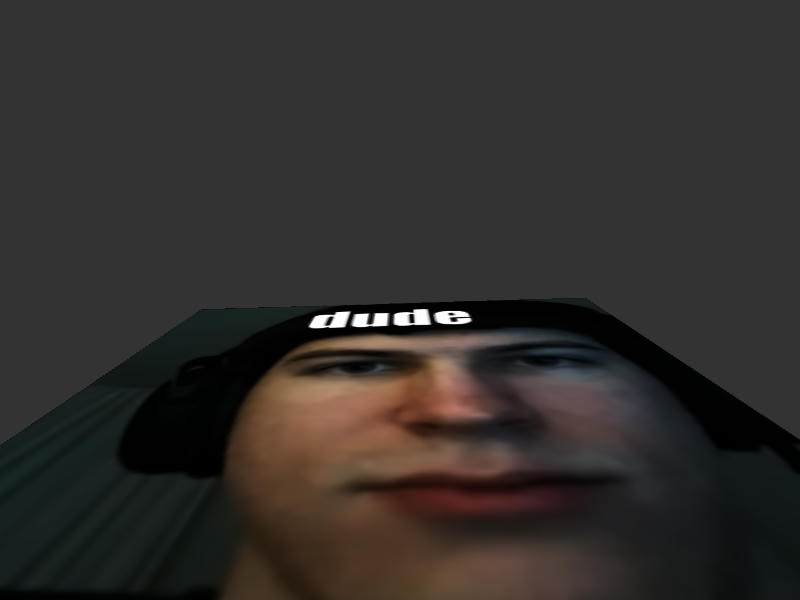
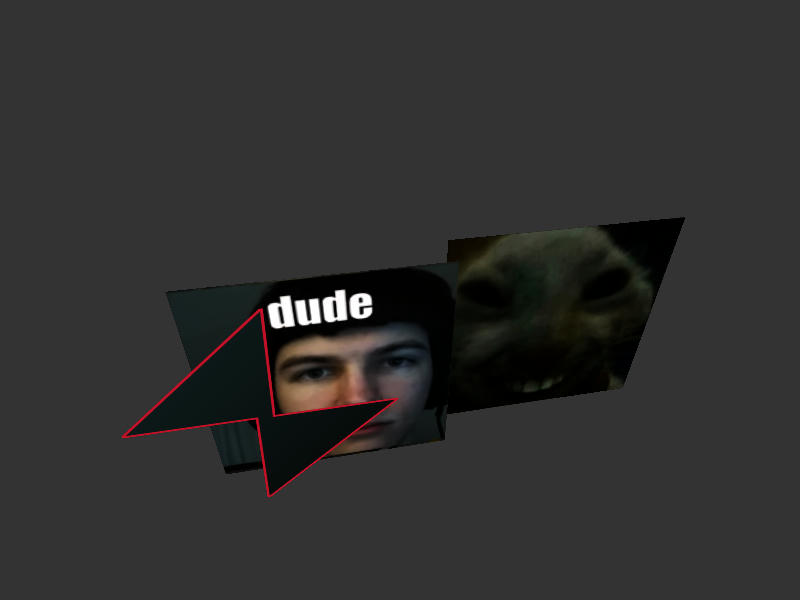
Multiple textures

diff --git a/src/vulkan/vulkano.rs b/src/vulkan/vulkano.rs
@@ -17,6 +17,8 @@ use crate::{InstanceData, Model, VertexData};
 
 use super::model::TexturedInstanceData;
 use super::model::TexturedVertexData;
+use super::pipeline;
+use super::texture::TextureStorage;
 
 pub struct Vulkano {
     pub window: winit::window::Window,
@@ -43,6 +45,7 @@ pub struct Vulkano {
     pub descriptor_sets_light: Vec<vk::DescriptorSet>,
     pub descriptor_sets_texture: Vec<vk::DescriptorSet>,
     pub light_buffer: Buffer,
+    pub texture_storage: TextureStorage,
 }
 
 impl Vulkano {
@@ -71,7 +74,7 @@ impl Vulkano {
         let renderpass = init_renderpass(&logical_device, swapchain.surface_format.format)?;
         swapchain.create_framebuffers(&logical_device, renderpass)?;
 
-        let pipeline = Pipeline::init_textured(&logical_device, &swapchain, &renderpass)?;
+        // let pipeline = Pipeline::init_textured(&logical_device, &swapchain, &renderpass)?;
         let pools = Pools::init(&logical_device, &queue_families)?;
 
         let allocator_create_description = gpu_allocator::vulkan::AllocatorCreateDesc {
@@ -121,14 +124,17 @@ impl Vulkano {
             },
             vk::DescriptorPoolSize {
                 ty: vk::DescriptorType::COMBINED_IMAGE_SAMPLER,
-                descriptor_count: swapchain.amount_of_images,
+                descriptor_count: pipeline::MAXIMAL_NUMBER_OF_TEXTURES * swapchain.amount_of_images,
             },
         ];
         let descriptor_pool_info = vk::DescriptorPoolCreateInfo::builder()
-            .max_sets(2 * swapchain.amount_of_images)
+            .flags(vk::DescriptorPoolCreateFlags::UPDATE_AFTER_BIND_EXT)
+            .max_sets(pipeline::MAXIMAL_NUMBER_OF_TEXTURES * pool_sizes.len() as u32)
             .pool_sizes(&pool_sizes);
         let descriptor_pool =
             unsafe { logical_device.create_descriptor_pool(&descriptor_pool_info, None) }?;
+
+        let pipeline = Pipeline::init_textured(&logical_device, &swapchain, &renderpass)?;
 
         let desc_layouts_camera =
             vec![pipeline.descriptor_set_layouts[0]; swapchain.amount_of_images as usize];
@@ -179,9 +185,15 @@ impl Vulkano {
 
         let desc_layouts_texture =
             vec![pipeline.descriptor_set_layouts[1]; swapchain.amount_of_images as usize];
+        let descriptor_counts =
+            vec![pipeline::MAXIMAL_NUMBER_OF_TEXTURES; swapchain.amount_of_images as usize];
+        let mut count_info = vk::DescriptorSetVariableDescriptorCountAllocateInfoEXT::builder()
+            .descriptor_counts(&descriptor_counts);
         let descriptor_set_allocate_info_texture = vk::DescriptorSetAllocateInfo::builder()
             .descriptor_pool(descriptor_pool)
-            .set_layouts(&desc_layouts_texture);
+            .set_layouts(&desc_layouts_texture)
+            .push_next(&mut count_info);
+
         let descriptor_sets_texture = unsafe {
             logical_device.allocate_descriptor_sets(&descriptor_set_allocate_info_texture)
         }?;
@@ -211,6 +223,7 @@ impl Vulkano {
             descriptor_sets_light: vec![],
             descriptor_sets_texture,
             light_buffer,
+            texture_storage: TextureStorage::new(),
         })
     }
 
@@ -297,6 +310,21 @@ impl Vulkano {
         self.pipeline = Pipeline::init_textured(&self.device, &self.swapchain, &self.renderpass)?;
         Ok(())
     }
+
+    pub fn new_texture_from_file<P: AsRef<std::path::Path>>(
+        &mut self,
+        path: P,
+    ) -> Result<usize, Box<dyn std::error::Error>> {
+        self.texture_storage.new_texture_from_file(
+            path,
+            &self.instance,
+            &self.device,
+            self.physical_device,
+            &mut self.allocator,
+            self.pools.command_pool_graphics,
+            self.queues.graphics_queue,
+        )
+    }
 }
 
 impl Drop for Vulkano {
@@ -305,6 +333,7 @@ impl Drop for Vulkano {
             self.device
                 .device_wait_idle()
                 .expect("Something went wrong while waiting");
+            self.texture_storage.cleanup(&self.device);
             self.device
                 .destroy_descriptor_pool(self.descriptor_pool, None);
             self.light_buffer.cleanup(&self.device, &mut self.allocator);

diff --git a/src/main.rs b/src/main.rs
@@ -31,8 +31,6 @@ use vulkan::swapchain::Swapchain;
 use vulkan::utils::*;
 use vulkan::vulkano::Vulkano;
 
-use crate::vulkan::texture::Texture;
-
 fn main() -> Result<(), Box<dyn std::error::Error>> {
     let event_loop = winit::event_loop::EventLoop::new();
     let window = WindowBuilder::new()
@@ -44,15 +42,11 @@ fn main() -> Result<(), Box<dyn std::error::Error>> {
 
     let mut camera = Camera::default();
 
-    let texture = Texture::from_file(
-        "./gfx/dude.png",
-        &vulkano.instance,
-        &vulkano.device,
-        vulkano.physical_device,
-        &mut vulkano.allocator,
-        vulkano.pools.command_pool_graphics,
-        vulkano.queues.graphics_queue,
-    )?;
+    let mut texture_id = vulkano.new_texture_from_file("./gfx/dude.png")?;
+
+    let mut second_texture_id = vulkano.new_texture_from_file("./gfx/xdd.png")?;
+
+    let third_texture_id = vulkano.new_texture_from_file("./gfx/newLogo.png")?;
 
     let mut quad = Model::quad();
     let mut lights = LightManager::default();
@@ -69,8 +63,19 @@ fn main() -> Result<(), Box<dyn std::error::Error>> {
         }
     } */
 
-    quad.insert_visibly(TexturedInstanceData::from_matrix(
+    quad.insert_visibly(TexturedInstanceData::from_matrix_and_texture(
         na::Matrix4::new_translation(&na::Vector3::new(0.0, 0.0, 0.0)),
+        texture_id,
+    ));
+
+    quad.insert_visibly(TexturedInstanceData::from_matrix_and_texture(
+        na::Matrix4::new_translation(&na::Vector3::new(2.0, 0.0, 0.3)),
+        second_texture_id,
+    ));
+
+    quad.insert_visibly(TexturedInstanceData::from_matrix_and_texture(
+        na::Matrix4::new_translation(&na::Vector3::new(-0.5, 0.0, -0.3)),
+        third_texture_id,
     ));
 
     lights.add_light(DirectionalLight {
@@ -153,6 +158,9 @@ fn main() -> Result<(), Box<dyn std::error::Error>> {
                     winit::event::VirtualKeyCode::F11 => {
                         screenshot(&vulkano).expect("Trouble taking screenshot");
                     }
+                    winit::event::VirtualKeyCode::F10 => {
+                        std::mem::swap(&mut texture_id, &mut second_texture_id);
+                    }
                     _ => {}
                 }
             }
@@ -199,26 +207,18 @@ fn main() -> Result<(), Box<dyn std::error::Error>> {
                         .unwrap();
                 }
 
-                let imageinfo = vk::DescriptorImageInfo {
-                    image_layout: vk::ImageLayout::SHADER_READ_ONLY_OPTIMAL,
-                    image_view: texture.image_view,
-                    sampler: texture.sampler,
-                    ..Default::default()
-                };
-                let descriptorwrite_image = vk::WriteDescriptorSet {
-                    dst_set: vulkano.descriptor_sets_texture[vulkano.swapchain.current_image],
-                    dst_binding: 0,
-                    dst_array_element: 0,
-                    descriptor_type: vk::DescriptorType::COMBINED_IMAGE_SAMPLER,
-                    descriptor_count: 1,
-                    p_image_info: [imageinfo].as_ptr(),
-                    ..Default::default()
-                };
-    
-                    vulkano
-                        .device
-                        .update_descriptor_sets(&[descriptorwrite_image], &[]);
-                
+                let imageinfos = vulkano.texture_storage.get_descriptor_image_info();
+                let descriptorwrite_image = vk::WriteDescriptorSet::builder()
+                    .dst_set(vulkano.descriptor_sets_texture[vulkano.swapchain.current_image])
+                    .dst_binding(0)
+                    .dst_array_element(0)
+                    .descriptor_type(vk::DescriptorType::COMBINED_IMAGE_SAMPLER)
+                    .image_info(&imageinfos)
+                    .build();
+
+                vulkano
+                    .device
+                    .update_descriptor_sets(&[descriptorwrite_image], &[]);
 
                 vulkano
                     .update_command_buffer(image_index as usize)

diff --git a/src/vulkan/pipeline.rs b/src/vulkan/pipeline.rs
@@ -4,6 +4,8 @@ use ash::vk;
 
 use crate::Swapchain;
 
+pub const MAXIMAL_NUMBER_OF_TEXTURES:u32 = 1024;
+
 pub struct Pipeline {
     pub pipeline: vk::Pipeline,
     pub layout: vk::PipelineLayout,
@@ -333,6 +335,12 @@ impl Pipeline {
                 offset: 112,
                 format: vk::Format::R32G32B32A32_SFLOAT,
             },
+            vk::VertexInputAttributeDescription {
+                binding: 1,
+                location: 10,
+                offset: 128,
+                format: vk::Format::R8G8B8A8_UINT,
+            },
         ];
         let vertex_binding_descs = [
             vk::VertexInputBindingDescription {
@@ -342,7 +350,7 @@ impl Pipeline {
             },
             vk::VertexInputBindingDescription {
                 binding: 1,
-                stride: 128,
+                stride: 132,
                 input_rate: vk::VertexInputRate::INSTANCE,
             },
         ];
@@ -410,16 +418,26 @@ impl Pipeline {
         let descriptorset_layout_binding_descs1 = [vk::DescriptorSetLayoutBinding::builder()
             .binding(0)
             .descriptor_type(vk::DescriptorType::COMBINED_IMAGE_SAMPLER)
-            .descriptor_count(1)
+            .descriptor_count(MAXIMAL_NUMBER_OF_TEXTURES)
             .stage_flags(vk::ShaderStageFlags::FRAGMENT)
             .build()];
+        let descriptor_binding_flags = [vk::DescriptorBindingFlags::VARIABLE_DESCRIPTOR_COUNT
+            | vk::DescriptorBindingFlags::PARTIALLY_BOUND_EXT
+            | vk::DescriptorBindingFlags::UPDATE_AFTER_BIND_EXT];
+        let mut descriptorset_layout_binding_flags =
+            vk::DescriptorSetLayoutBindingFlagsCreateInfoEXT::builder()
+                .binding_flags(&descriptor_binding_flags);
+
         let descriptorset_layout_info1 = vk::DescriptorSetLayoutCreateInfo::builder()
-            .bindings(&descriptorset_layout_binding_descs1);
+            .flags(vk::DescriptorSetLayoutCreateFlags::UPDATE_AFTER_BIND_POOL_EXT)
+            .bindings(&descriptorset_layout_binding_descs1)
+            .push_next(&mut descriptorset_layout_binding_flags);
         let descriptor_set_layout1 = unsafe {
             logical_device.create_descriptor_set_layout(&descriptorset_layout_info1, None)
         }?;
 
         let desclayouts = vec![descriptor_set_layout0, descriptor_set_layout1];
+
         let pipelinelayout_info = vk::PipelineLayoutCreateInfo::builder().set_layouts(&desclayouts);
         let pipelinelayout =
             unsafe { logical_device.create_pipeline_layout(&pipelinelayout_info, None) }?;

diff --git a/src/vulkan/texture.rs b/src/vulkan/texture.rs
@@ -182,3 +182,62 @@ impl Texture {
         })
     }
 }
+
+pub struct TextureStorage {
+    textures: Vec<Texture>,
+}
+
+impl TextureStorage {
+    pub fn new() -> Self {
+        TextureStorage { textures: vec![] }
+    }
+    pub unsafe fn cleanup(&mut self, logical_device: &ash::Device) {
+        for texture in &self.textures {
+            logical_device.destroy_image(texture.vk_image, None);
+            logical_device.free_memory(texture.vk_image_memory, None);
+            logical_device.destroy_image_view(texture.image_view, None);
+            logical_device.destroy_sampler(texture.sampler, None);
+        }
+    }
+    pub fn new_texture_from_file<P: AsRef<std::path::Path>>(
+        &mut self,
+        path: P,
+        instance: &ash::Instance,
+        logical_device: &ash::Device,
+        physical_device: vk::PhysicalDevice,
+        allocator: &mut gpu_allocator::vulkan::Allocator,
+        command_pool_graphics: vk::CommandPool,
+        graphics_queue: vk::Queue,
+    ) -> Result<usize, Box<dyn std::error::Error>> {
+        let new_texture = Texture::from_file(
+            path,
+            instance,
+            logical_device,
+            physical_device,
+            allocator,
+            command_pool_graphics,
+            graphics_queue,
+        )?;
+        let new_id = self.textures.len();
+        self.textures.push(new_texture);
+        Ok(new_id)
+    }
+    pub fn get(&self, index: usize) -> Option<&Texture> {
+        self.textures.get(index)
+    }
+    pub fn get_mut(&mut self, index: usize) -> Option<&mut Texture> {
+        self.textures.get_mut(index)
+    }
+
+    pub fn get_descriptor_image_info(&self) -> Vec<vk::DescriptorImageInfo> {
+        self.textures
+            .iter()
+            .map(|t| vk::DescriptorImageInfo {
+                image_layout: vk::ImageLayout::SHADER_READ_ONLY_OPTIMAL,
+                image_view: t.image_view,
+                sampler: t.sampler,
+                ..Default::default()
+            })
+            .collect()
+    }
+}

diff --git a/src/vulkan/utils.rs b/src/vulkan/utils.rs
@@ -159,13 +159,22 @@ pub fn init_device_and_queues(
     ];
     let features = vk::PhysicalDeviceFeatures::builder().fill_mode_non_solid(true);
 
-    let device_extension_name_pointers: Vec<*const i8> =
-        vec![ash::extensions::khr::Swapchain::name().as_ptr()];
+    let device_extension_name_pointers: Vec<*const i8> = vec![
+        ash::extensions::khr::Swapchain::name().as_ptr(),
+        "VK_EXT_descriptor_indexing\0".as_ptr() as *const i8,
+    ];
+    let mut indexing_features = vk::PhysicalDeviceDescriptorIndexingFeatures::builder()
+        .runtime_descriptor_array(true)
+        .descriptor_binding_variable_descriptor_count(true)
+        .descriptor_binding_partially_bound(true)
+        .descriptor_binding_sampled_image_update_after_bind(true)
+        .build();
     let device_create_info = vk::DeviceCreateInfo::builder()
         .queue_create_infos(&queue_infos)
         .enabled_extension_names(&device_extension_name_pointers)
         .enabled_layer_names(&layer_name_pointers)
-        .enabled_features(&features);
+        .enabled_features(&features)
+        .push_next(&mut indexing_features);
     let logical_device =
         unsafe { instance.create_device(physical_device, &device_create_info, None)? };
     let graphics_queue =

diff --git a/src/vulkan/model.rs b/src/vulkan/model.rs
@@ -505,6 +505,7 @@ pub struct TexturedVertexData {
 pub struct TexturedInstanceData {
     pub model_matrix: [[f32; 4]; 4],
     pub inverse_model_matrix: [[f32; 4]; 4],
+    pub texture_id: u32,
 }
 
 impl TexturedInstanceData {
@@ -512,6 +513,18 @@ impl TexturedInstanceData {
         TexturedInstanceData {
             model_matrix: model_matrix.into(),
             inverse_model_matrix: model_matrix.try_inverse().unwrap().into(),
+            texture_id: 0,
+        }
+    }
+
+    pub fn from_matrix_and_texture(
+        model_matrix: na::Matrix4<f32>,
+        texture_id: usize,
+    ) -> TexturedInstanceData {
+        TexturedInstanceData {
+            model_matrix: model_matrix.into(),
+            inverse_model_matrix: model_matrix.try_inverse().unwrap().into(),
+            texture_id: texture_id as u32,
         }
     }
 }
